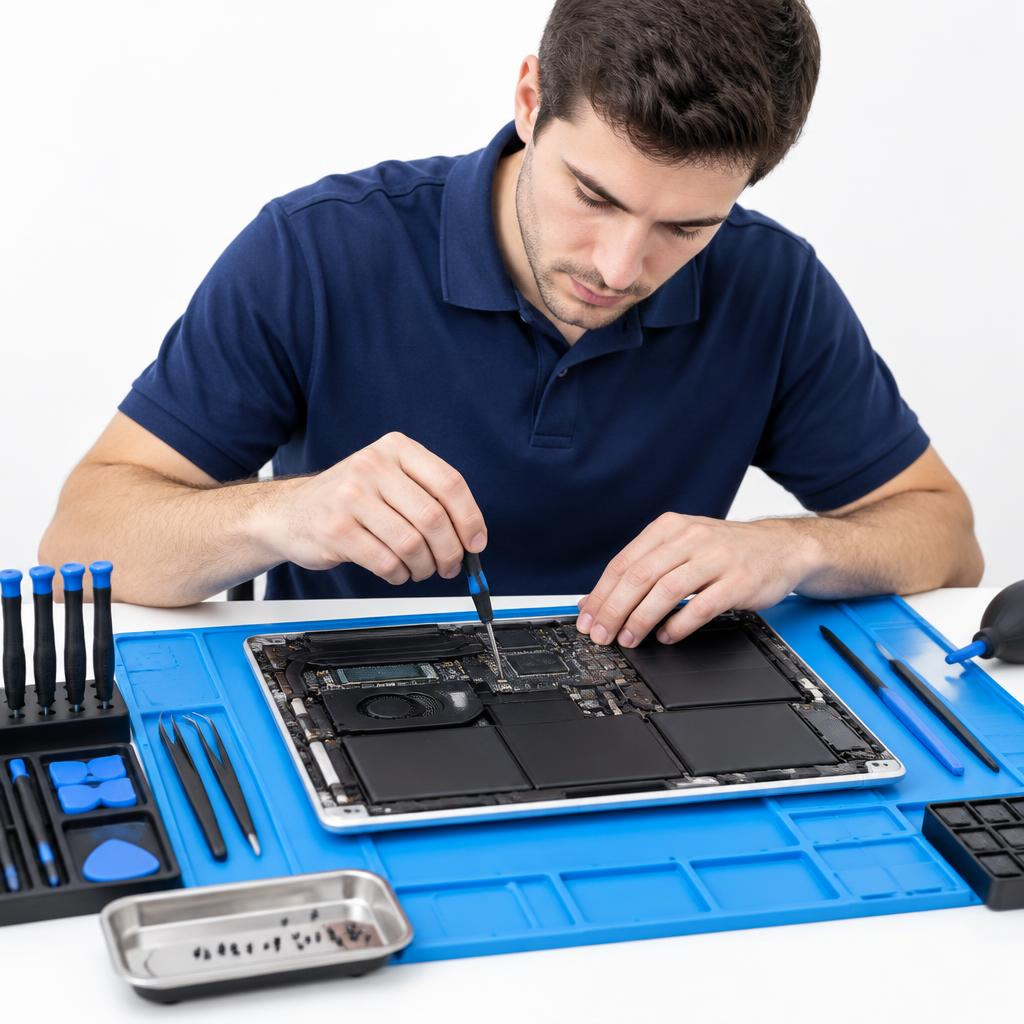
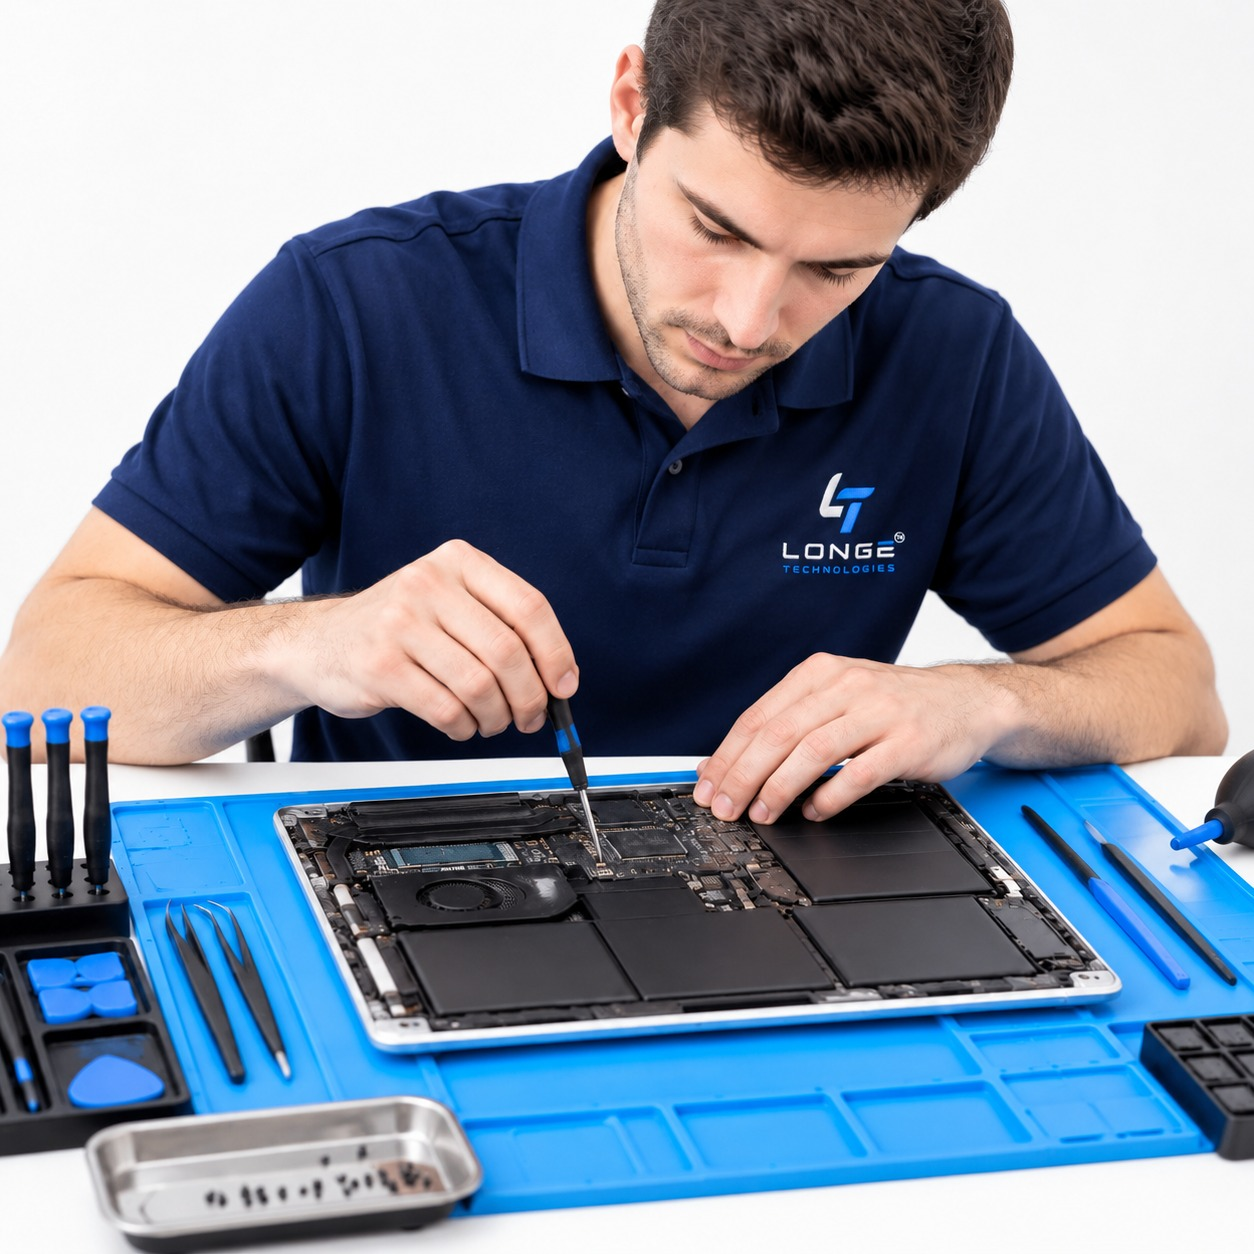
first

diff --git a/src/routes/index.tsx b/src/routes/index.tsx
@@ -28,6 +28,7 @@ import heroImg from "@/assets/hero-repair.jpg";
 import aboutImg from "@/assets/about-workshop.jpg";
 import logoImg from "@/assets/logo.png";
 import logoWhiteImg from "@/assets/logo-white.png";
+import macImg from "@/assets/mac-service.jpg";
 
 export const Route = createFileRoute("/")({
   head: () => ({
@@ -110,60 +111,70 @@ const SERVICES = [
     title: "Laptop & Desktop Sales & Service",
     desc: "Brand new system sales, custom PC builds, and complete diagnosis and repair for all brands.",
     badge: "Sales & Service",
+    image: "https://images.unsplash.com/photo-1593642632823-8f785ba67e45?auto=format&fit=crop&w=600&q=80",
   },
   {
     icon: Cpu,
     title: "Laptop Chip Level Service",
     desc: "Advanced motherboard BGA rework, micro-soldering, short-circuit troubleshooting & power IC fixes.",
     badge: "Chip Level",
+    image: "https://images.unsplash.com/photo-1518770660439-4636190af475?auto=format&fit=crop&w=600&q=80",
   },
   {
     icon: ShoppingBag,
     title: "Used Laptop Sales",
     desc: "Fully tested, high-quality certified pre-owned laptops with warranty support at great prices.",
     badge: "Certified Pre-Owned",
+    image: "https://images.unsplash.com/photo-1496181133206-80ce9b88a853?auto=format&fit=crop&w=600&q=80",
   },
   {
     icon: Printer,
     title: "Printer Sales & Service",
     desc: "LaserJet, Inkjet, and thermal printer repair, cartridge toner refilling, printhead service & new sales.",
     badge: "Printers",
+    image: "https://images.unsplash.com/photo-1612815154858-60aa4c59eaa6?auto=format&fit=crop&w=600&q=80",
   },
   {
     icon: Cctv,
     title: "CCTV Installation & Service",
     desc: "End-to-end security camera setup, DVR/NVR configuration, mobile live-view, cabling & maintenance.",
     badge: "Surveillance",
+    image: "https://images.unsplash.com/photo-1557597774-9d273605dfa9?auto=format&fit=crop&w=600&q=80",
   },
   {
     icon: DatabaseBackup,
     title: "Data Recovery",
     desc: "Safe data extraction and restoration from failed hard disks, SSDs, formatted drives & corrupt OS.",
     badge: "Data Care",
+    image: "https://images.unsplash.com/photo-1531492746076-161ca9bcad58?auto=format&fit=crop&w=600&q=80",
   },
   {
     icon: ShieldCheck,
     title: "Multi-Brand Warranty Support",
     desc: "Authorized-grade repairs and warranty assistance for HP, Dell, Lenovo, Asus, Acer, Apple & more.",
     badge: "Warranty Support",
+    image: "https://images.unsplash.com/photo-1550751827-4bd374c3f58b?auto=format&fit=crop&w=600&q=80",
   },
   {
     icon: FileCheck2,
     title: "AMC (Annual Maintenance Contract)",
     desc: "Proactive IT maintenance, regular servicing, and prioritized breakdown support for offices and homes.",
     badge: "AMC Contracts",
+    image: "https://images.unsplash.com/photo-1558494949-ef010cbdcc31?auto=format&fit=crop&w=600&q=80",
   },
   {
     icon: AppWindow,
     title: "Software Installation",
     desc: "Genuine OS setup (Windows/macOS/Linux), drivers, antivirus security, and specialized software setup.",
     badge: "Software & OS",
+    image: "https://images.unsplash.com/photo-1526374965328-7f61d4dc18c5?auto=format&fit=crop&w=600&q=80",
   },
   {
     icon: Truck,
     title: "Onsite Desktop & Laptop Service",
     desc: "Doorstep service engineer visits to your residence or office for immediate diagnosis and on-the-spot repair.",
     badge: "Doorstep Onsite",
+    image: "https://images.unsplash.com/photo-1581092918056-0c4c3acd3789?auto=format&fit=crop&w=600&q=80",
   },
 ] as const;
 
@@ -858,52 +869,92 @@ function Services() {
               viewport={{ once: true, margin: "-40px" }}
               transition={{ duration: 0.5, delay: (i % 4) * 0.08 }}
               whileHover={{ y: -8 }}
-              className="group relative flex flex-col justify-between overflow-hidden rounded-3xl border bg-card p-7 transition-shadow duration-300 hover:shadow-card-hover"
+              className="group relative flex h-full flex-col justify-between overflow-hidden rounded-3xl border bg-card transition-all duration-300 hover:shadow-card-hover"
             >
-              <div className="absolute inset-x-0 top-0 h-1 origin-left scale-x-0 bg-gradient-primary transition-transform duration-500 group-hover:scale-x-100" />
-              <div>
-                <div className="flex items-center justify-between gap-2">
-                  <span className="grid size-14 place-items-center rounded-2xl bg-accent text-primary transition-all duration-300 group-hover:bg-gradient-primary group-hover:text-primary-foreground group-hover:shadow-elegant">
-                    <s.icon className="size-7" />
-                  </span>
-                  <span className="rounded-full bg-secondary px-2.5 py-0.5 text-[10px] font-bold uppercase tracking-wider text-navy/70">
-                    {s.badge}
-                  </span>
-                </div>
-                <h3 className="mt-5 text-lg font-bold text-navy leading-snug">{s.title}</h3>
-                <p className="mt-2 text-sm leading-relaxed text-muted-foreground">{s.desc}</p>
+              {/* Service Photo Banner - 100% visible, sharp & vibrant */}
+              <div className="relative h-44 w-full overflow-hidden bg-muted">
+                <img
+                  src={s.image}
+                  alt={s.title}
+                  loading="lazy"
+                  width={600}
+                  height={400}
+                  className="h-full w-full object-cover object-center transition-transform duration-700 group-hover:scale-110"
+                />
+                <div className="absolute inset-0 bg-gradient-to-t from-black/60 via-black/10 to-transparent" />
+                <span className="absolute top-3 right-3 rounded-full bg-navy/85 backdrop-blur-md px-2.5 py-1 text-[10px] font-bold uppercase tracking-wider text-white shadow-sm border border-white/10">
+                  {s.badge}
+                </span>
               </div>
-              <a
-                href="#contact"
-                className="mt-6 inline-flex items-center gap-1.5 text-sm font-bold text-primary opacity-85 transition-all group-hover:gap-2.5 group-hover:opacity-100"
-              >
-                Inquire now <ArrowRight className="size-4" />
-              </a>
+
+              {/* Service Details Body */}
+              <div className="flex flex-1 flex-col justify-between p-6">
+                <div>
+                  <h3 className="text-lg font-bold text-navy leading-snug group-hover:text-primary transition-colors">
+                    {s.title}
+                  </h3>
+                  <p className="mt-2 text-sm leading-relaxed text-muted-foreground">
+                    {s.desc}
+                  </p>
+                </div>
+                <a
+                  href="#contact"
+                  className="mt-6 inline-flex items-center gap-1.5 text-sm font-bold text-primary opacity-85 transition-all group-hover:gap-2.5 group-hover:opacity-100"
+                >
+                  Inquire now <ArrowRight className="size-4" />
+                </a>
+              </div>
             </motion.div>
           ))}
-          <Reveal className="flex flex-col justify-between rounded-3xl bg-gradient-navy p-7 text-navy-foreground sm:col-span-2 lg:col-span-1 xl:col-span-2">
-            <div>
-              <span className="rounded-full bg-primary/20 px-3 py-1 text-xs font-bold text-primary-glow">
-                Need Fast Assistance?
-              </span>
-              <h3 className="mt-4 text-2xl font-bold">Have a specific device issue or requirement?</h3>
-              <p className="mt-2 text-sm text-navy-foreground/75 leading-relaxed">
-                Connect with our certified engineers for instant consultation, free diagnosis, or on-site service booking across Kerala.
-              </p>
+          <Reveal className="group relative overflow-hidden rounded-3xl sm:col-span-2 lg:col-span-2 xl:col-span-2 shadow-card-hover border border-white/10 flex flex-col justify-between h-full min-h-[340px]">
+            {/* Complete Mac Image spanning the entire card */}
+            <div className="absolute inset-0 z-0 overflow-hidden">
+              <img
+                src={macImg}
+                alt="Apple Mac & MacBook Repair by Longe Technologies"
+                className="h-full w-full object-cover object-center transition-transform duration-700 group-hover:scale-105"
+                loading="lazy"
+                width={1200}
+                height={960}
+              />
+              {/* Subtle gradient to keep full photo completely visible while ensuring text readability */}
+              <div className="absolute inset-0 bg-gradient-to-r from-navy/90 via-navy/50 to-transparent" />
             </div>
-            <div className="mt-6 flex flex-wrap items-center gap-3">
-              <Button variant="hero" asChild>
-                <a href={WHATSAPP} target="_blank" rel="noreferrer">
-                  <WhatsAppIcon className="size-4" /> WhatsApp Us
-                </a>
-              </Button>
-              <Button
-                variant="ghostLight"
-                asChild
-                className="border border-white/30 bg-white/10 text-white hover:bg-white/20 hover:text-white font-semibold"
-              >
-                <a href="#contact">Send Inquiry</a>
-              </Button>
+
+            {/* Content overlay without any solid background block */}
+            <div className="relative z-10 flex flex-col justify-between p-6 sm:p-7 h-full max-w-lg">
+              <div>
+                <div className="flex flex-wrap items-center gap-2">
+                  <span className="rounded-full bg-primary/25 backdrop-blur-md px-2.5 py-0.5 text-[10px] font-bold text-primary-glow border border-primary/40 uppercase tracking-wider">
+                    Apple Mac Specialist
+                  </span>
+                  <span className="rounded-full bg-black/30 backdrop-blur-md px-2 py-0.5 text-[10px] font-semibold text-white/90 border border-white/15">
+                    MacBook Pro • Air • iMac
+                  </span>
+                </div>
+                <h3 className="mt-3 text-lg sm:text-xl font-bold text-white leading-snug drop-shadow-sm">
+                  Specialized Apple MacBook & iMac Service
+                </h3>
+                <p className="mt-2 text-xs sm:text-sm text-white/85 leading-relaxed line-clamp-3 drop-shadow-sm">
+                  Chip-level logic board repair, liquid damage recovery, Retina display replacement, battery service & performance upgrades across Kerala.
+                </p>
+              </div>
+
+              <div className="mt-4 flex flex-wrap items-center gap-2.5">
+                <Button variant="hero" size="sm" asChild className="h-9 px-4 text-xs font-semibold shadow-elegant">
+                  <a href={WHATSAPP} target="_blank" rel="noreferrer">
+                    <WhatsAppIcon className="size-3.5" /> WhatsApp Us
+                  </a>
+                </Button>
+                <Button
+                  variant="ghostLight"
+                  size="sm"
+                  asChild
+                  className="h-9 px-4 text-xs font-semibold border border-white/40 bg-black/30 text-white hover:bg-white/20 hover:text-white backdrop-blur-md"
+                >
+                  <a href="#contact">Book Service</a>
+                </Button>
+              </div>
             </div>
           </Reveal>
         </div>
